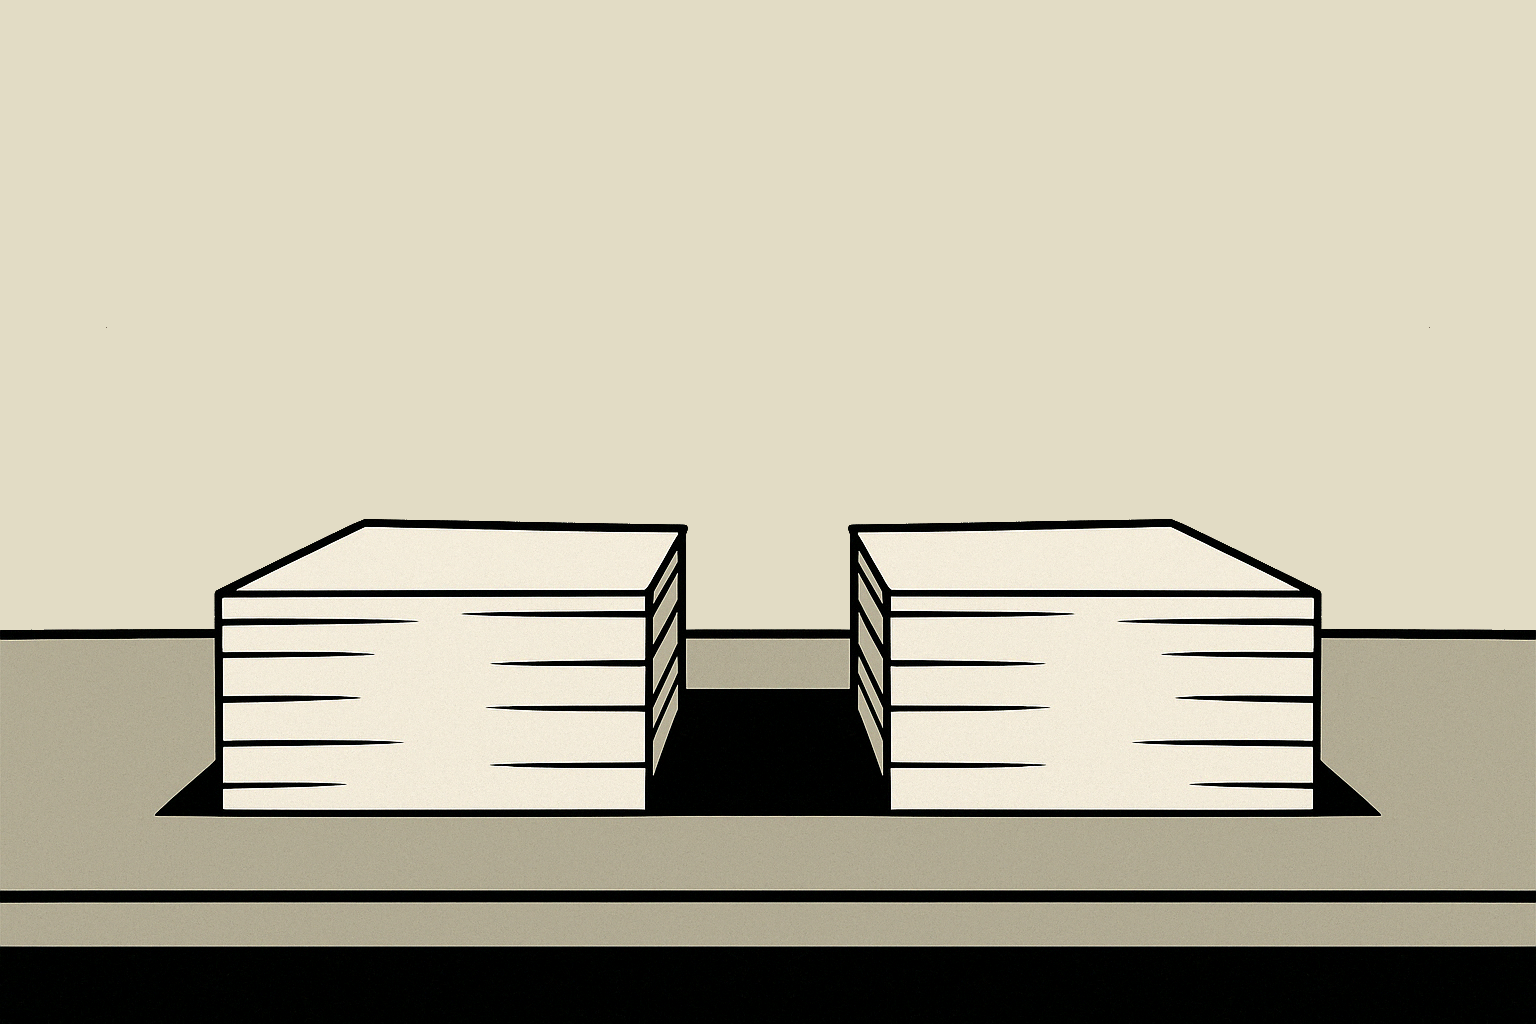
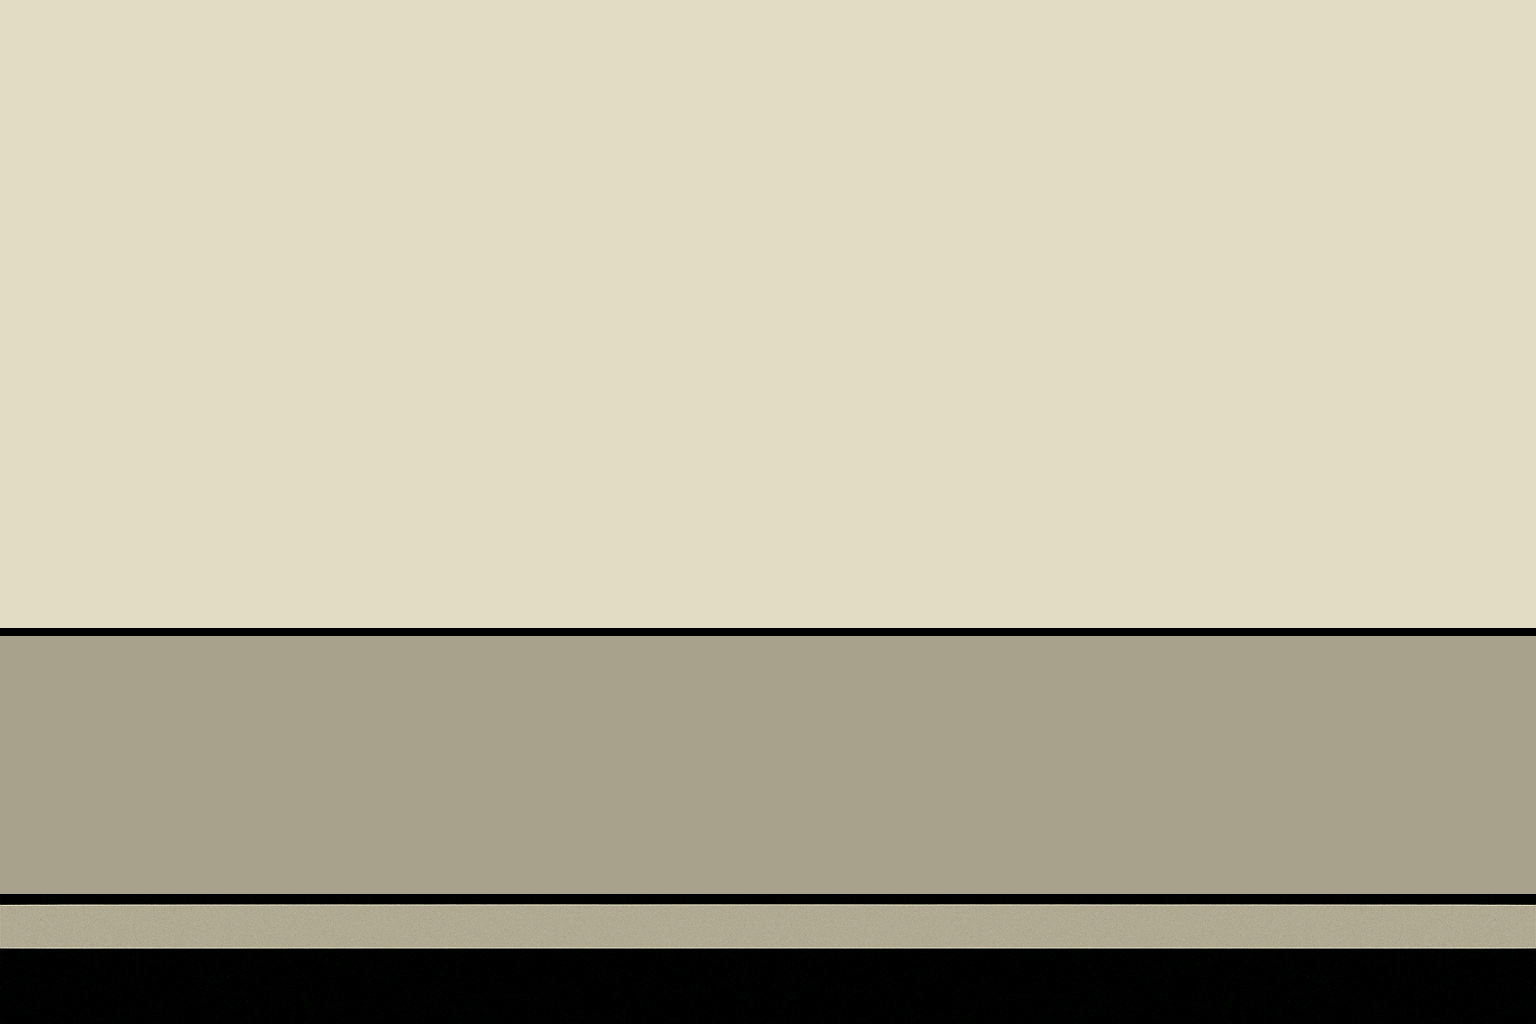
vis2

Changed region(s): [[0.0, 0.5, 1.0, 0.8125], [0.0, 0.8438, 1.0, 0.9375]]

diff --git a/js/vis2.js b/js/vis2.js
@@ -1,76 +1,100 @@
 document.addEventListener("DOMContentLoaded", () => {
-const svg = d3.select("#desk-svg");
-const arrow = document.getElementById("price-arrow");
-const label = document.getElementById("price-label");
-const dropdown = document.getElementById("neighborhood-select");
+    const svg = d3.select("#desk-svg");
+    const arrow = document.getElementById("price-arrow");
+    const label = document.getElementById("price-label");
+    const dropdown = document.getElementById("neighborhood-select");
 
-d3.csv("./files/ownership_and_vacancy_over_time.csv").then(files => {
-    
-    console.log("Loaded rows:", files.length); //debugging lines
-    console.log(files[0]); 
-    
-    const cities = Array.from(new Set(files.map(d => d.city)));
-    cities.forEach(city => {
-    const opt = document.createElement("option");
-    opt.value = city;
-    opt.textContent = city;
-    dropdown.appendChild(opt);
+  
+    // Load and bind data
+    d3.csv("./files/ownership_and_vacancy_over_time.csv").then(files => {
+      console.log("Loaded rows:", files.length);
+      console.log(files[0]);
+  
+      const cities = Array.from(new Set(files.map(d => d.city)));
+      cities.forEach(city => {
+        const opt = document.createElement("option");
+        opt.value = city;
+        opt.textContent = city;
+        dropdown.appendChild(opt);
+      });
+  
+    const priceExtent = d3.extent(files, d => +d.avg_price); 
+    // const priceScale = d3.scaleLinear()
+    //     .domain(priceExtent)
+    //     .range([10, 170]); 
+    const priceScale = d3.scaleLog()
+        .domain(priceExtent)
+        .range([170, 10]);  // flipped because top = high price
+
+  
+      dropdown.addEventListener("change", () => updateViz(dropdown.value));
+      updateViz(cities[0]);
+  
+      function updateViz(city) {
+        const d = files.find(row => row.city === city);
+        if (!d) return;
+  
+        const corporateRatio = +d.corporate_sales / +d.total_sales;
+        const ownerRatio = +d.owner_occ_sales / +d.total_sales;
+        const avgPrice = +d.avg_price;
+  
+        const priceAmount = document.getElementById("price-amount");
+        if (priceAmount) {
+            priceAmount.textContent = `$${Math.round(avgPrice).toLocaleString()}`;
+        }
+
+        arrow.style.top = `${priceScale(avgPrice)}px`;
+  
+        svg.selectAll("*").remove();
+
+        const viewBoxWidth = 800;
+        const viewBoxHeight = 400;
+  
+        const tileWidth = 400;
+        const tileHeight = 40;
+        const tileGap = -31; // space in pixels between tiles
+        const barMaxHeight = 280;  // total height for full 100% stack
+        const maxLayers = Math.floor(barMaxHeight / (tileHeight + tileGap));
+
+        const corpLayers = Math.round(corporateRatio * maxLayers);
+        const ownerLayers = Math.round(ownerRatio * maxLayers);
+  
+        const corporateX = 80;
+        const ownerX = (corporateX +230);
+        const baseY = 330; // Bottom of the stack
+  
+        for (let i = 0; i < corpLayers; i++) {
+        svg.append("image")
+            .attr("href", "./images/leftstack.png")
+            .attr("x", corporateX)
+            .attr("y", baseY - (i + 1) * (tileHeight + tileGap))
+            .attr("width", tileWidth)
+            .attr("height", tileHeight);
+          
+        }
+  
+        for (let i = 0; i < ownerLayers; i++) {
+          svg.append("image")
+            .attr("href", "./images/rightstack.png")
+            .attr("x", ownerX)
+            .attr("y", baseY - (i + 1) * (tileHeight + tileGap))
+            .attr("width", tileWidth)
+            .attr("height", tileHeight);
+        }
+  
+        // Labels
+        svg.append("text")
+          .attr("x", corporateX + 190)
+          .attr("y", baseY + 60)
+          .attr("text-anchor", "middle")
+          .text("Corporate-Owned");
+  
+        svg.append("text")
+          .attr("x", ownerX + 210)
+          .attr("y", baseY + 60)
+          .attr("text-anchor", "middle")
+          .text("Owner-Occupied");
+      }
     });
-
-    const priceExtent = d3.extent(files, d => +d.avg_price);
-    const priceScale = d3.scaleLinear()
-    .domain(priceExtent)
-    .range([160, 0]);
-
-    dropdown.addEventListener("change", () => updateViz(dropdown.value));
-    updateViz(cities[0]);
-
-    function updateViz(city) {
-    const d = files.find(row => row.city === city);
-    if (!d) return;
-
-    const corporateRatio = +d.corporate_sales / +d.total_sales;
-    const ownerRatio = +d.owner_occ_sales / +d.total_sales;
-    const avgPrice = +d.avg_price;
-
-    label.textContent = `Average Price: $${Math.round(avgPrice).toLocaleString()}`;
-    arrow.style.top = `${priceScale(avgPrice)}px`;
-
-    svg.selectAll("*").remove();
-
-    const barMaxH = 120;
-    const baseY = 240;
-    const scaleH = d3.scaleLinear().domain([0, 1]).range([0, barMaxH]);
-
-    // Corporate Stack
-    
-    svg.append("rect")
-        .attr("x", 230)
-        .attr("y", baseY - scaleH(corporateRatio))
-        .attr("width", 40)
-        .attr("height", scaleH(corporateRatio))
-        .attr("fill", "#e63946");
-
-    // Owner Stack
-    svg.append("rect")
-        .attr("x", 420)
-        .attr("y", baseY - scaleH(ownerRatio))
-        .attr("width", 40)
-        .attr("height", scaleH(ownerRatio))
-        .attr("fill", "#457b9d");
-
-    // Labels
-    svg.append("text")
-        .attr("x", 270)
-        .attr("y", baseY + 20)
-        .attr("text-anchor", "middle")
-        .text("Corporate");
-
-    svg.append("text")
-        .attr("x", 380)
-        .attr("y", baseY + 20)
-        .attr("text-anchor", "middle")
-        .text("Owner");
-    }
-});
-});
+  });
+  

diff --git a/css/vis2.css b/css/vis2.css
@@ -1,73 +1,129 @@
 #desk-viz-container {
-  max-width: 800px;
+  background-color: transparent !important;
+  max-width: 1000px;
   margin: 0 auto;
   position: relative;
 }
-  
-#desk-ui {
- 
-  background-color: transparent;
-  position: absolute;
-  margin: 0 auto;
-  width: 200px;
-  text-align: left;
-  margin-bottom: 10px;
-}
-
-
   
 #desk-scene {
-  width: 100%;
   position: relative;
-  overflow: hidden;
+  height: 500px;
 }
+
 
 #desk-bg {
   width: 100%;
   height: auto;
   display: block;
   object-fit: contain;
-  border-radius: 8px;
+  /* border-radius: 8px; */
+  z-index: 0;
 }
 
 #desk-svg {
+  background-color: transparent !important;
   position: absolute;
   top: 0;
   left: 0;
   width: 100%;
   height: 100%;
+  z-index: 1;
   pointer-events: none;
+  /* border: 2px dashed lime; */
+}
+
+
+#desk-ui {
+ 
+  position: absolute;
+  top: 20px;   
+  left: 20px;
+  /* margin: 0 auto;
+  width: 200px;
+  text-align: left; */
+  z-index: 10;
+  background-color: black;
+  /* border-radius: 5px; */
+  padding: 8px 12px;
+  font-size: 14px;
+  /* font-family: monospace;  */
+  /* box-shadow: 2px 2px 4px rgba(0,0,0,0.15); */
 }
 
 #price-bar-container {
+  background-color: transparent !important;
   position: absolute;
   top: 20px;
   right: 20px;
   height: 180px;
-  width: 40px;
+  width: 80px;
   display: flex;
   flex-direction: column;
   align-items: center;
+  justify-content: flex-start;
   z-index: 10;
 }
 
 #price-bar-bg {
-  width: 10px;
+  width: 15px;
   height: 180px;
-  background-color: #ddd;
+  background: linear-gradient(to top, #fff8b3, #e63946) !important;
   position: relative;
   margin-bottom: 8px;
   border-radius: 4px;
+  border: 2px solid black;  
 }
 
 #price-arrow {
-  width: 0;
-  height: 0;
-  border-left: 8px solid transparent;
-  border-right: 8px solid transparent;
-  border-bottom: 10px solid black;
+  width: 1;
+  height: 1;
+  border-left: 10px solid transparent;
+  border-right: 10px solid transparent;
+  border-bottom: 8px solid black;
   position: absolute;
-  left: -6px;
+  left: -5px;
+}
+
+.price-label-tag {
+  background: transparent !important;
+  color: black;
+  font-size: 12px;
+  position: absolute;
+  right: 25px;
+}
+
+#price-label {
+  background: transparent !important;
+  margin-top: 4px;
+  padding: 2px 2px;
+  text-align: center;
+  color: black;
+  font-size: 12px;
+  /* font-weight: bold; */
+  line-height: 1.2;
+  width: 100%;
+}
+
+#price-label span {
+  background: none !important;
+  color: black !important;
+}
+
+#price-amount {
+  background: transparent !important;
+  font-weight: bold;
+  font-size: 14px;
+  color: black;
+}
+
+#neighborhood-select {
+  background-color: #f0f0f0;
+  color: #000;
+  border: 1px solid #ccc;
+  /* font-family: monospace; */
+  padding: 4px;
+  border-radius: 4px;
+  font-size: 14px;
 }
 
 

diff --git a/index.html b/index.html
@@ -71,20 +71,25 @@
         <p class="writeup-text">Select a neighborhood to see owner-occupancy vs. corporate ownership, and the average home price.</p>
       
         <div id="desk-viz-container">
-          
+            
           <div id="desk-scene">
+            <img id="desk-bg" src="./images/desk_scene_bg.png" alt="Desk background" />
+            <svg id="desk-svg" viewBox="0 0 800 400" preserveAspectRatio="xMidYMid meet"></svg>
             <div id="desk-ui">
                 <label for="neighborhood-select">Choose a neighborhood:</label>
                 <select id="neighborhood-select"></select>
-              </div>
-            <img id="desk-bg" src="./images/desk_scene_bg.png" alt="Desk background" />
-            <!-- <svg id="desk-svg" viewBox="0 0 800 400" preserveAspectRatio="xMidYMid meet"></svg> -->
+            </div>
           </div>
           <div id="price-bar-container">
             <div id="price-bar-bg">
               <div id="price-arrow"></div>
-            </div>
-            <p id="price-label">Average Price: $XXX,XXX</p>
+            <!-- <div class="price-label-tag" style="top: 0;">High</div>
+            <div class="price-label-tag" style="bottom: 0;">Low</div> -->
+        </div>
+        <p id="price-label">
+            <span>Average Price</span><br>
+            <span id="price-amount">$XXX,XXX</span>
+        </p>
           </div>
         </div>
       </div>

diff --git a/css/writeup.css b/css/writeup.css
@@ -1,8 +1,15 @@
-.writeup-text {
+/* .writeup-text {
     font-size: min(1.3vw, 1.75vh);
 	line-height: 125%;
     margin-bottom: 1vh;
+} */
+
+.writeup-text {
+    font-size: min(1.8vw, 2.2vh); 
+    line-height: 135%;            
+    margin-bottom: 1.5vh;         
 }
+
 
 .imageContainer {
     width: 75vw;
